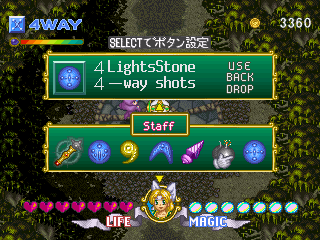
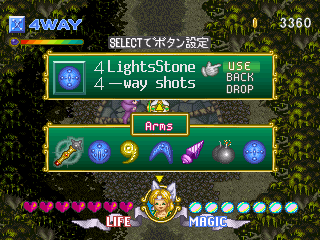
Valkyrie No Bouken: added gfx rebuild script

diff --git a/examples/Valkyrie No Bouken 2 PS1/README.md b/examples/Valkyrie No Bouken 2 PS1/README.md
@@ -3,7 +3,7 @@
 ## Current status  🏗
 
  - All dialogue text translated, 1st revision pass complete.
- - Gfx text/buttons are NOT translated.
+ - Only some gfx text/buttons are translated.
  - First testing playthrough complete.
 
 
